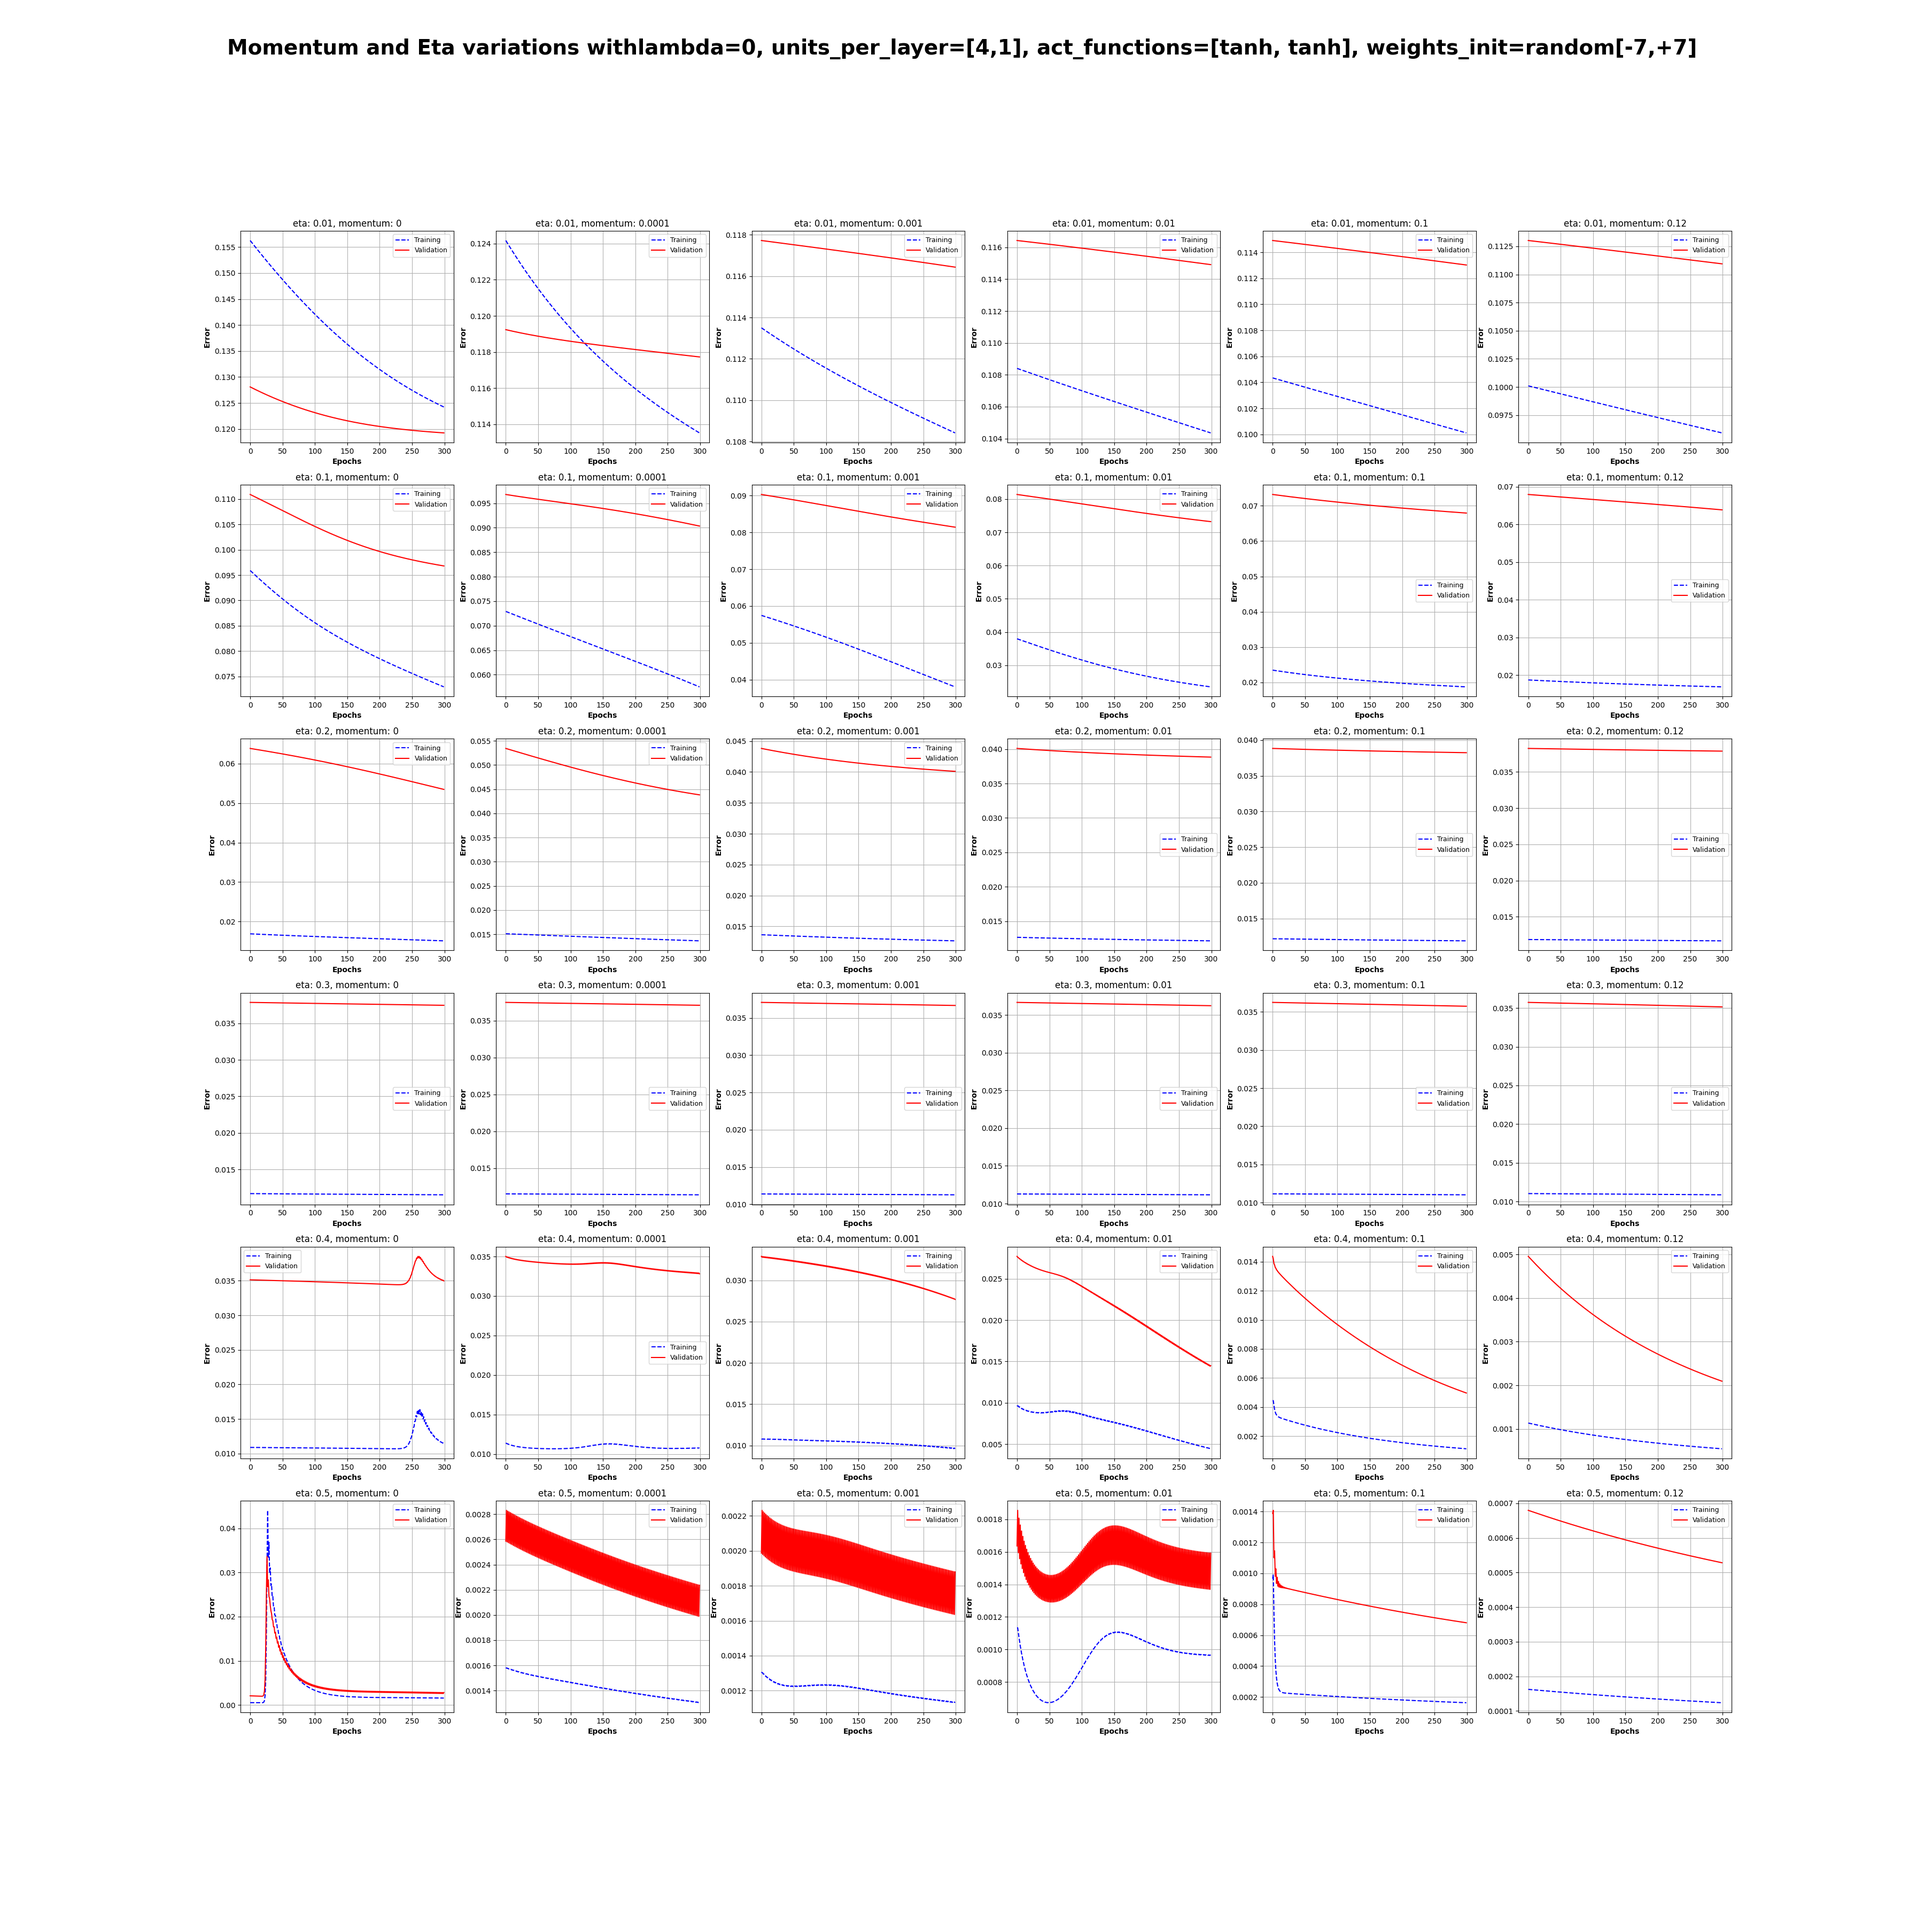
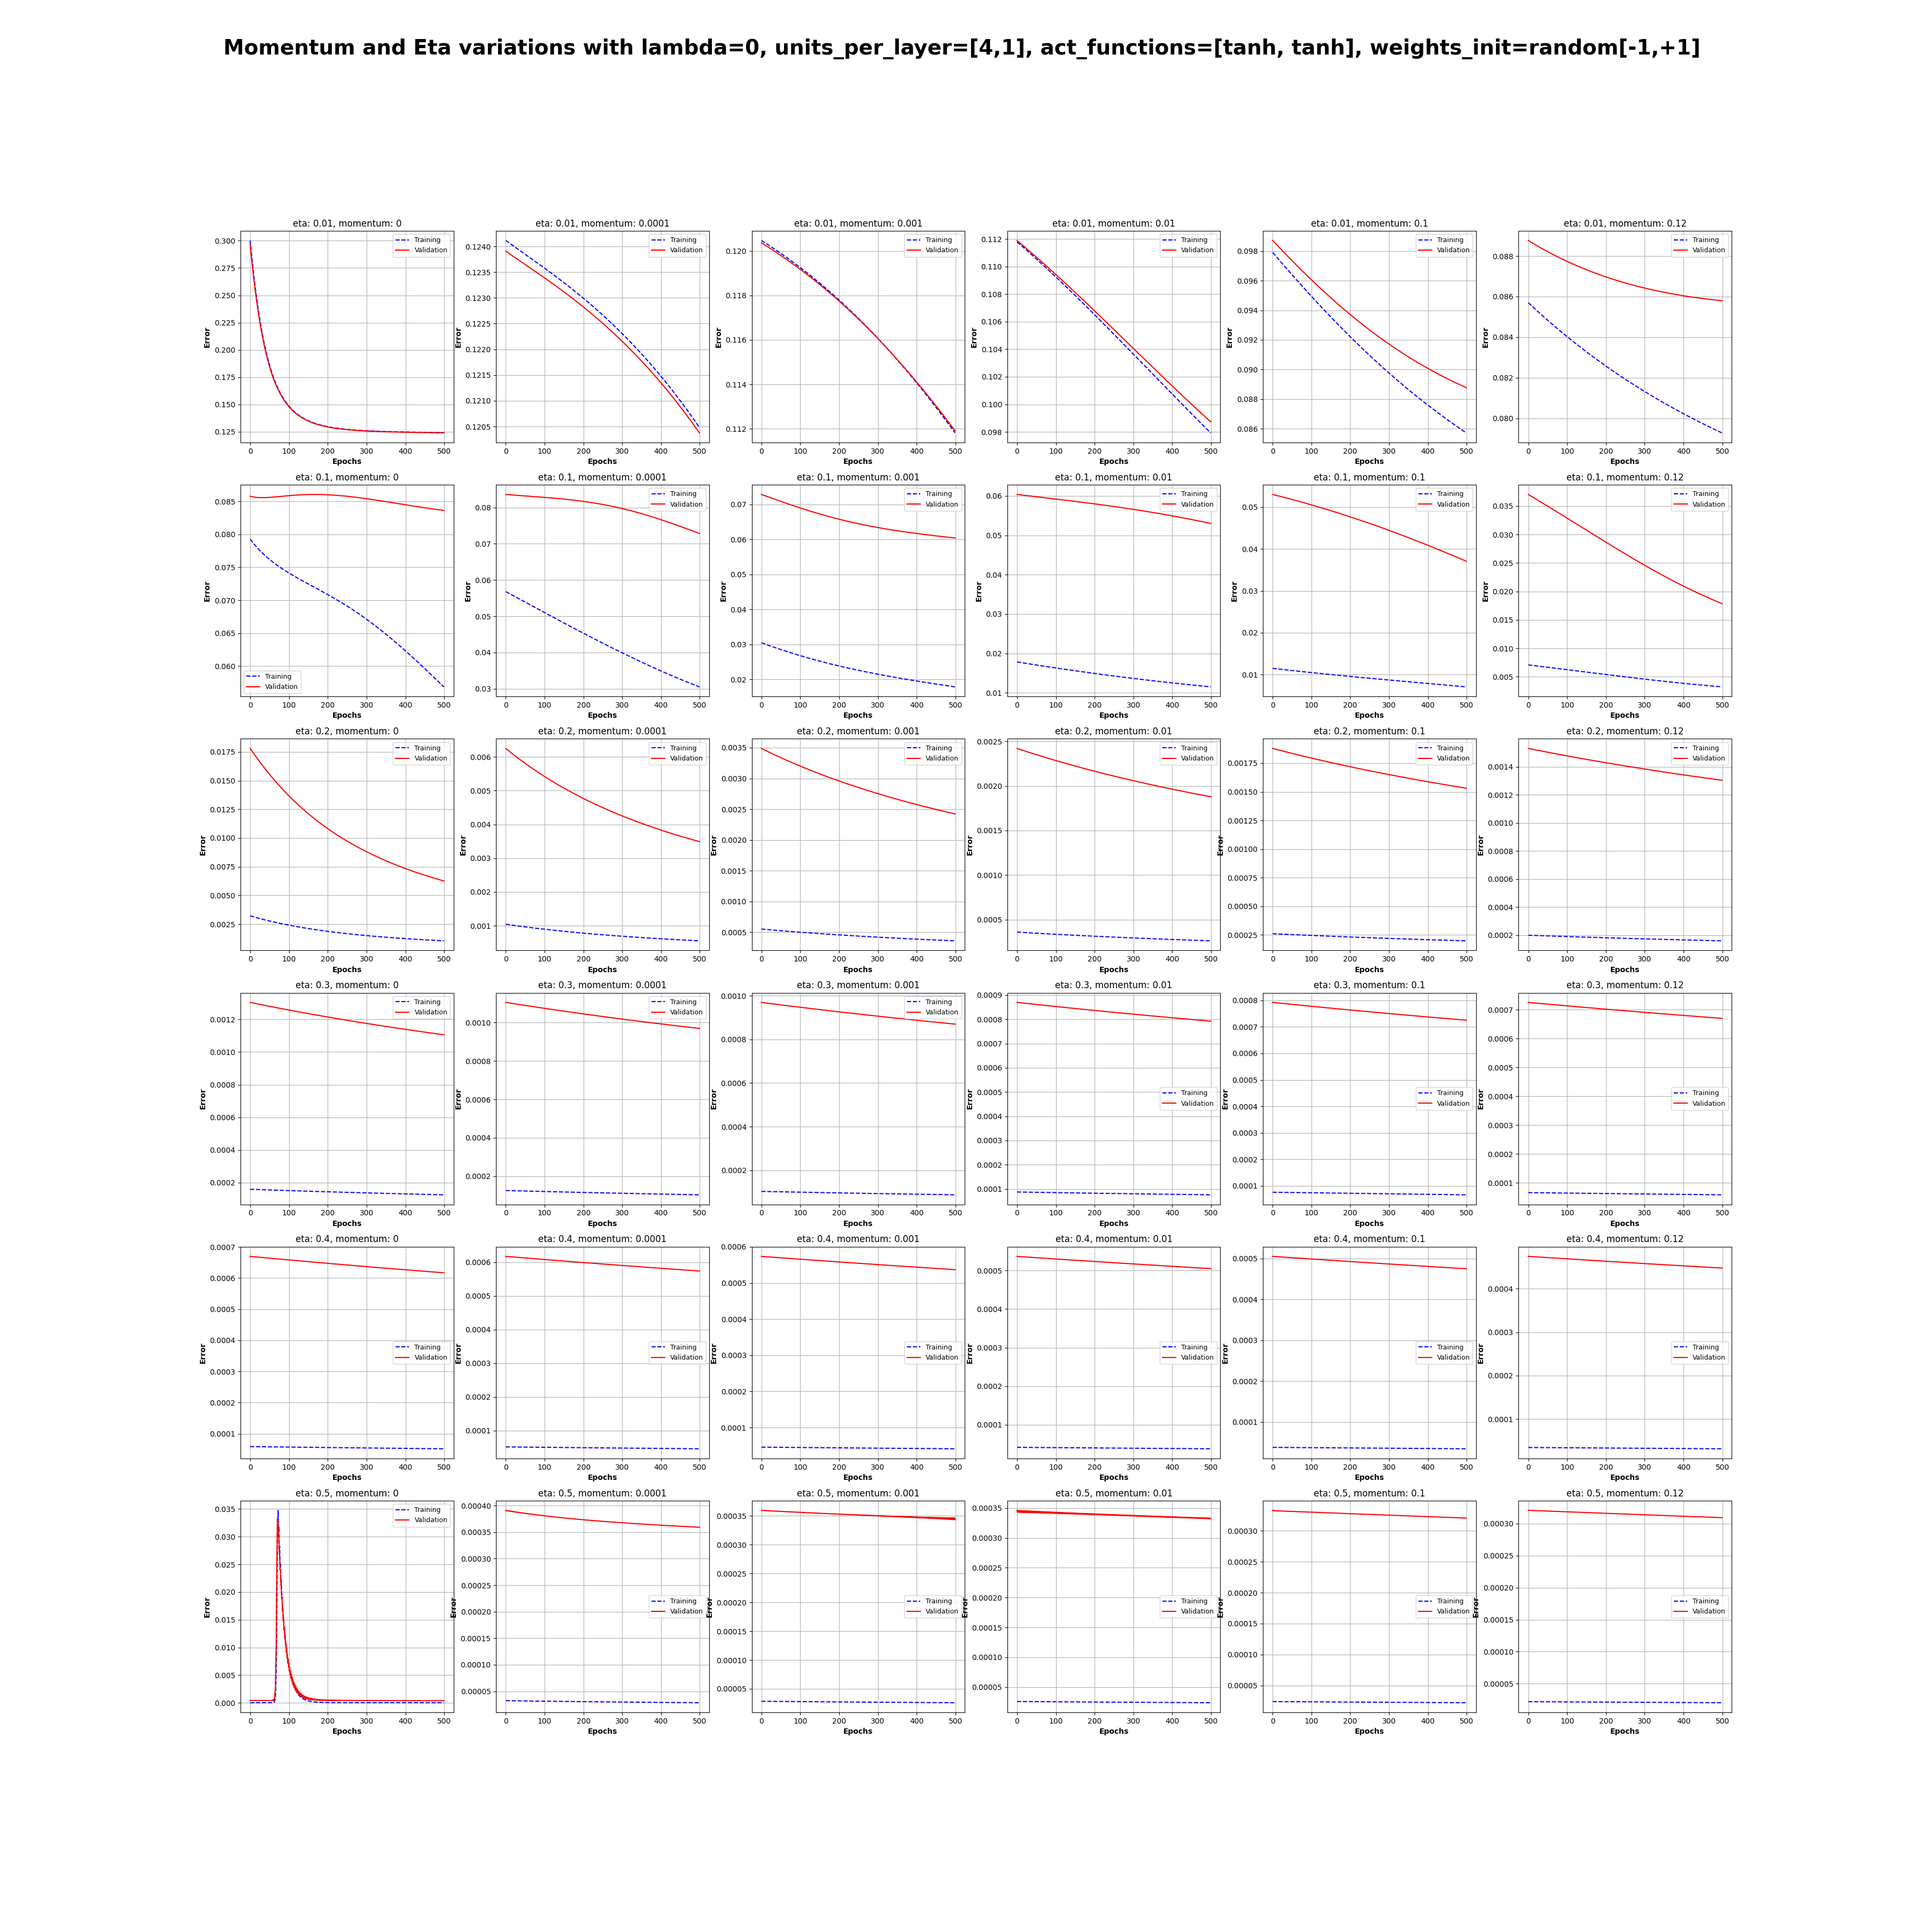
screening phase

diff --git a/src/screening-phase.py b/src/screening-phase.py
@@ -58,7 +58,7 @@ if __name__ == '__main__':
             # # training (check the method definition for more info about all the possible parameters)
             tr_err, tr_metr, val_err, val_metr = model.fit(tr_x=train_X, tr_y=train_y, val_x=val_X, val_y=val_y,
                                                            batch_size='full',
-                                                           epochs=200, tqdm=True)
+                                                           epochs=500, tqdm=True)
             # todo: plot metrics, not just loss
             axs[int(plot_id / 6)][plot_id % 6].plot(range(len(tr_err)), tr_err, color='b', linestyle='dashed', label='Training')
             axs[int(plot_id / 6)][plot_id % 6].plot(range(len(val_err)), val_err, color='r', label='Validation')
